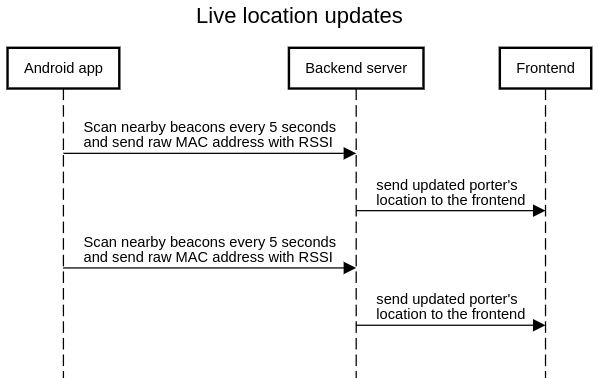
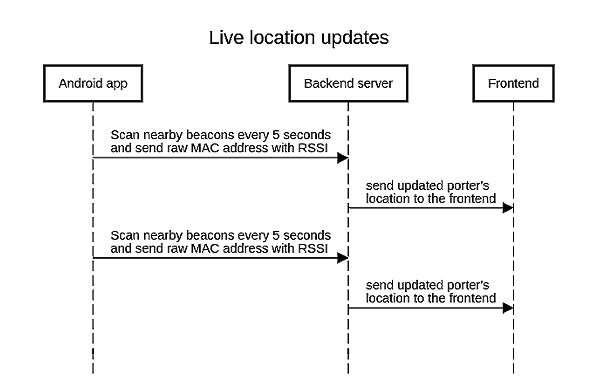
Updated system article

diff --git a/System.html b/System.html
@@ -50,7 +50,7 @@
 						<h3 class="subheadingLinks">
 							<a href="#architecture">Architecture</a>
 							<a href="#site-map">Site Map</a>
-							<a href="#sequence-diagram">Sequence Diagram</a>
+							<a href="#sequence-diagram">Sequence Diagrams</a>
 							<a href="#data-storage">Data Storage</a>
 							<br />
 							<a href="#discussion">Design Discussion</a>
@@ -150,12 +150,12 @@
 					</span>
 				</section>
 				<section id="sequence-diagram">
-					<h2>Sequence Diagram</h2>
-					<span class="image main"><img src="./images/LiveLocationUpdatesSequenceDiagram.png" alt="" class="systemBg2" />
+					<h2>Sequence Diagrams</h2>
+					<span class="image main"><img src="./images/LiveLocationUpdatesSequenceDiagram.png" alt="" class="systemBg4" />
 						<p class="descriptionSystem">Figure 3: Live location updates sequence diagram.
 						</p>
 					</span>
-					<span class="image main"><img src="./images/OneTimePinFlow.png" alt="" class="systemBg2" />
+					<span class="image main"><img src="./images/OneTimePinFlow.png" alt="" class="systemBg4" />
 						<p class="descriptionSystem">Figure 4: One time pin flow sequence diagram
 						</p>
 					</span>

diff --git a/assets/css/main.css b/assets/css/main.css
@@ -4868,6 +4868,15 @@ body.is-preload #intro:not(.hidden) + #header + #nav {
   border-radius: 5%;
 }
 
+.systemBg4 {
+  background-image: linear-gradient(
+    to right,
+    rgb(255, 208, 77),
+    rgb(243, 109, 0)
+  );
+  border-radius: 5%;
+}
+
 .iterationsBg {
   background-image: linear-gradient(
     to right,
